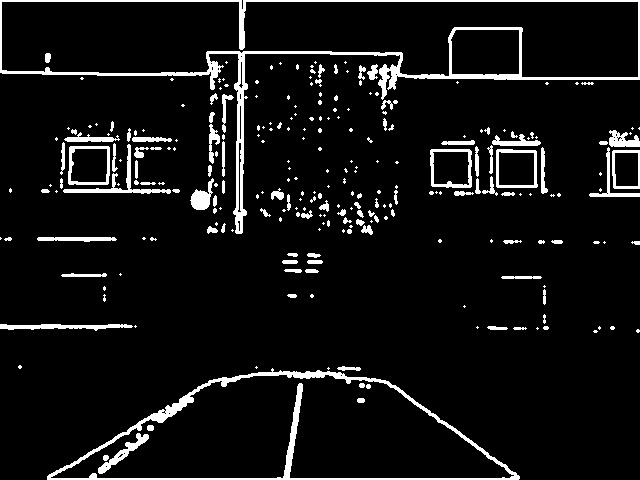
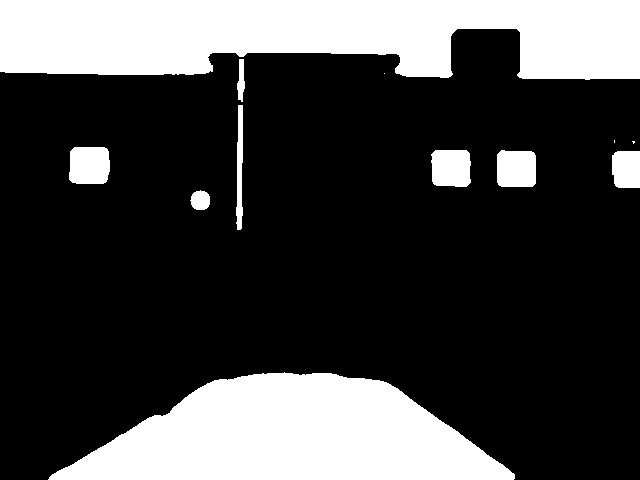
fixed the drawContours to fill in

diff --git a/img_proc/image_processor.py b/img_proc/image_processor.py
@@ -24,10 +24,11 @@ class ImageProcessor:
             ret, thresh = cv2.threshold(self.work_image, 150, 255, 0)
         else:
             ret, thresh = cv2.threshold(img, 150, 255, 0)
-        # self.display_image(thresh)
+        median = cv2.medianBlur(thresh, 9)
+        cv2.imshow('Median Blur', median)
 
-        im2, contours, hierarchy = cv2.findContours(thresh, cv2.RETR_TREE, cv2.CHAIN_APPROX_SIMPLE)
-        cv2.drawContours(self.image_original, contours, -1, self.contour_color, 2)
+        im2, contours, hierarchy = cv2.findContours(median, cv2.RETR_TREE, cv2.CHAIN_APPROX_SIMPLE)
+        cv2.drawContours(self.image_original, contours, -1, self.contour_color, -1)
         # for contour in range(len(contours)):
         #     if len(contours[contour]) > 20:
         #         cv2.drawContours(self.image_original, contours, contour, self.contour_color, -2)
